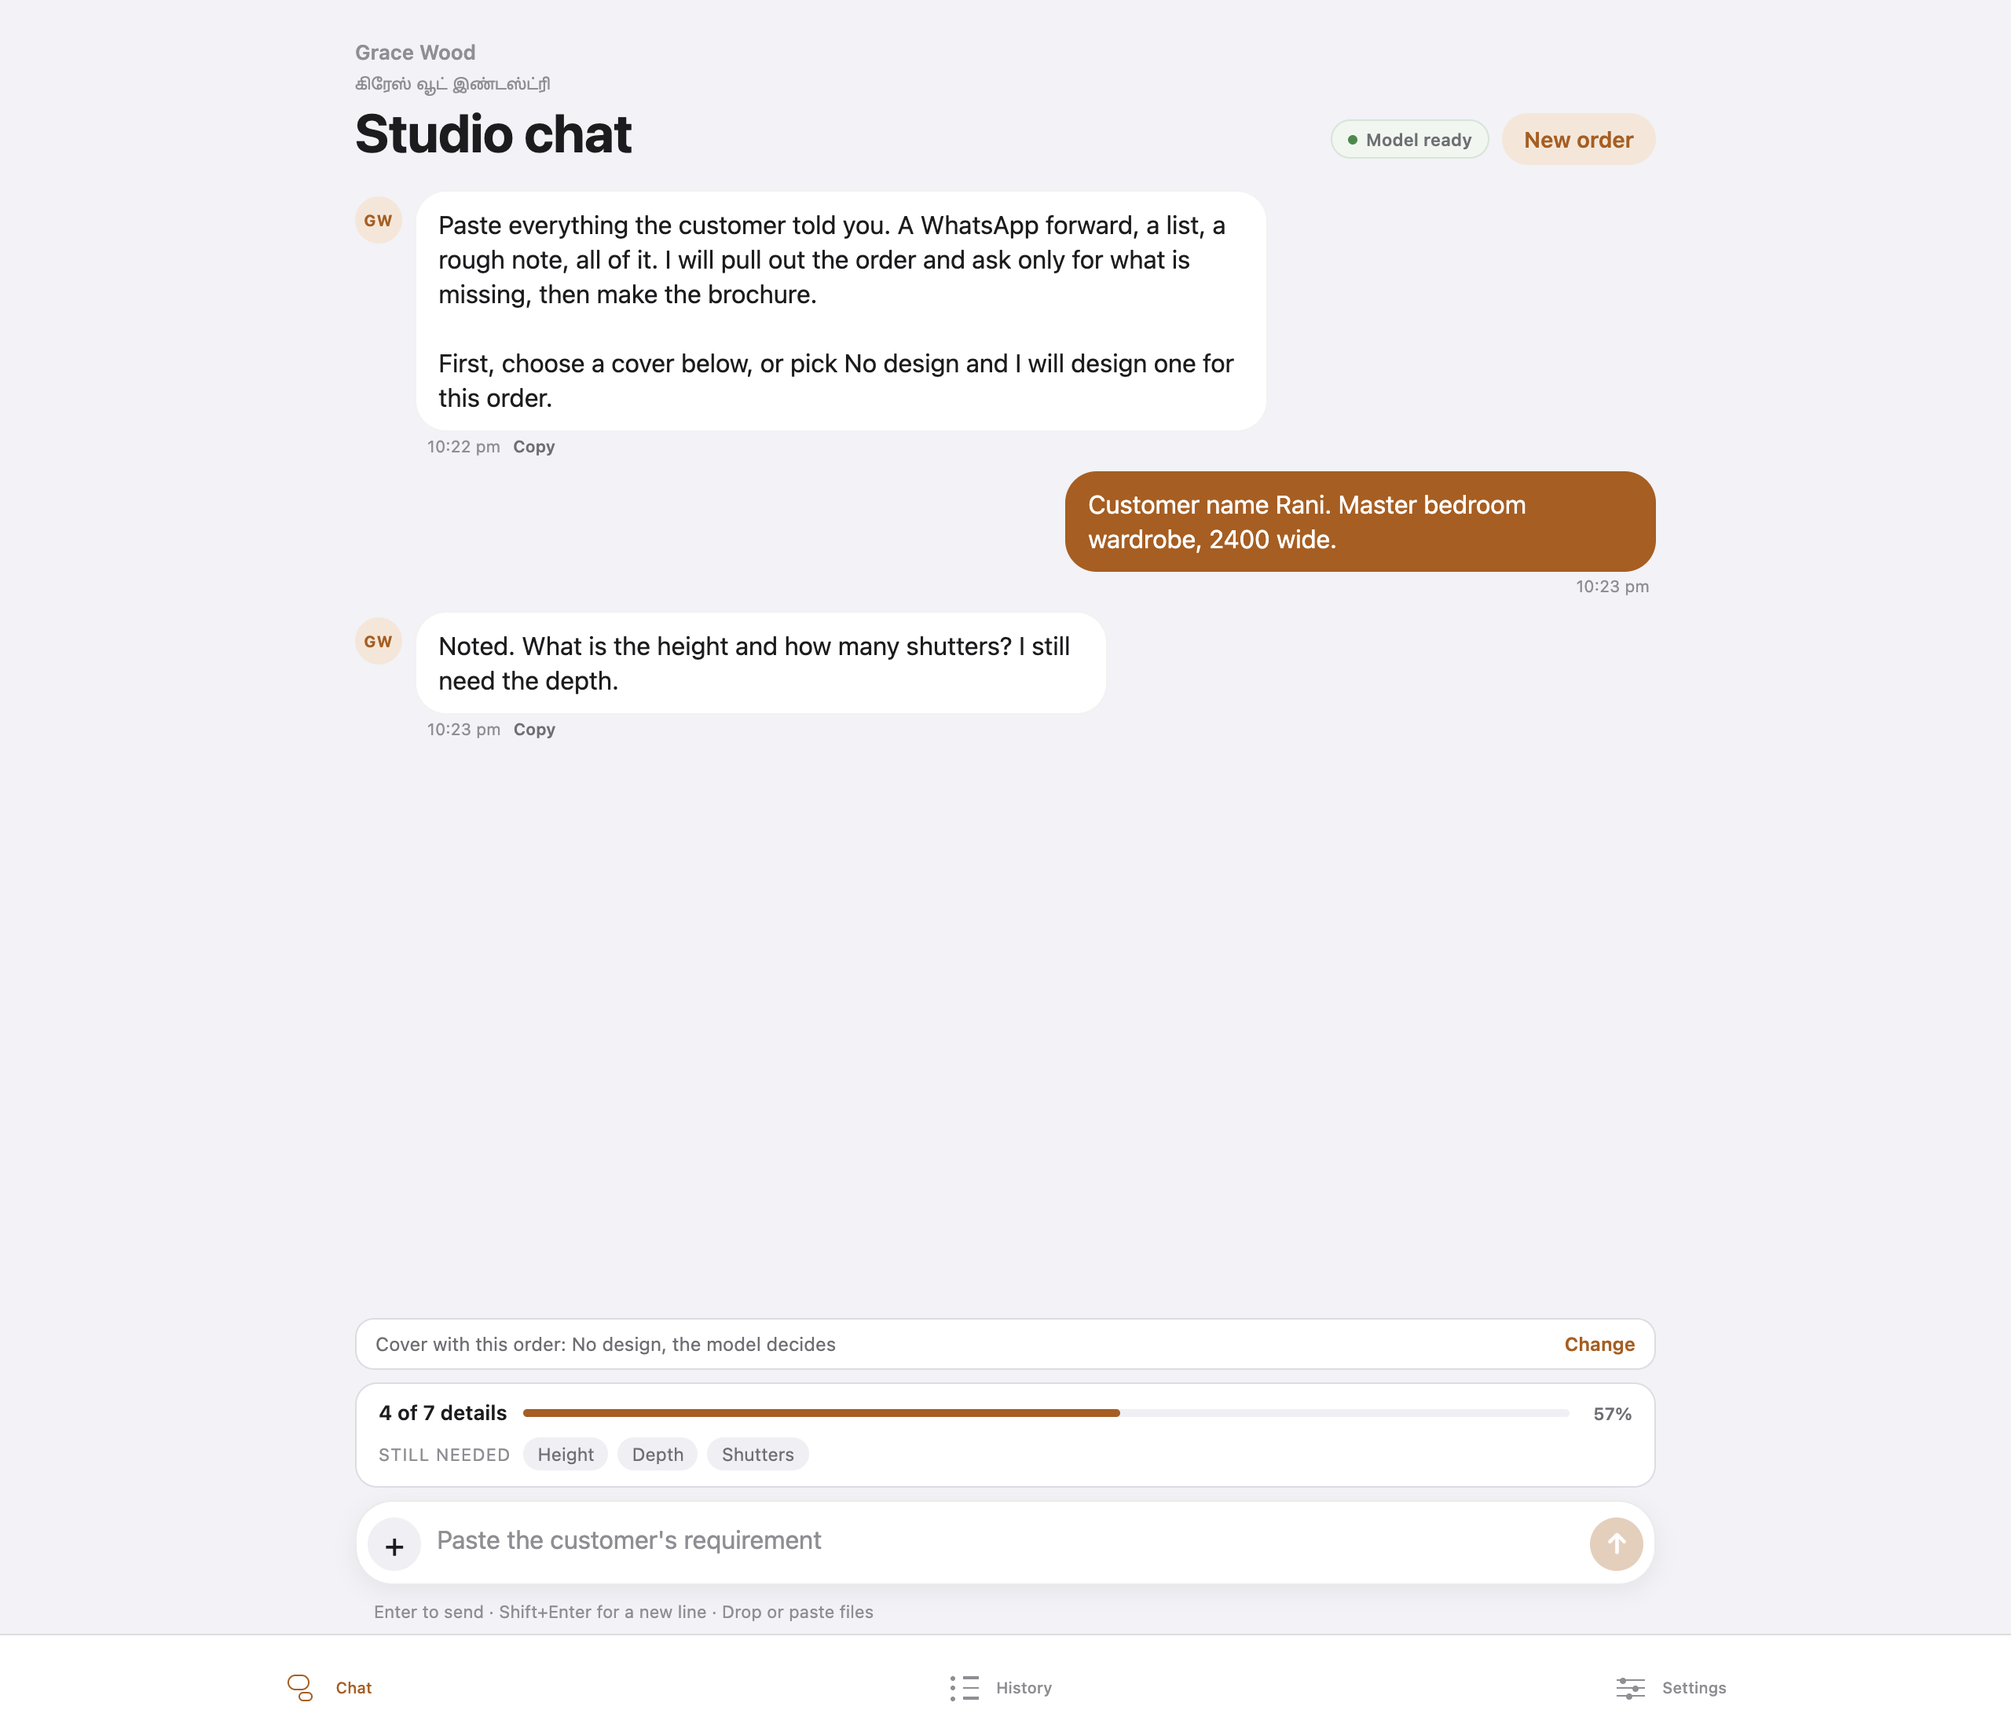
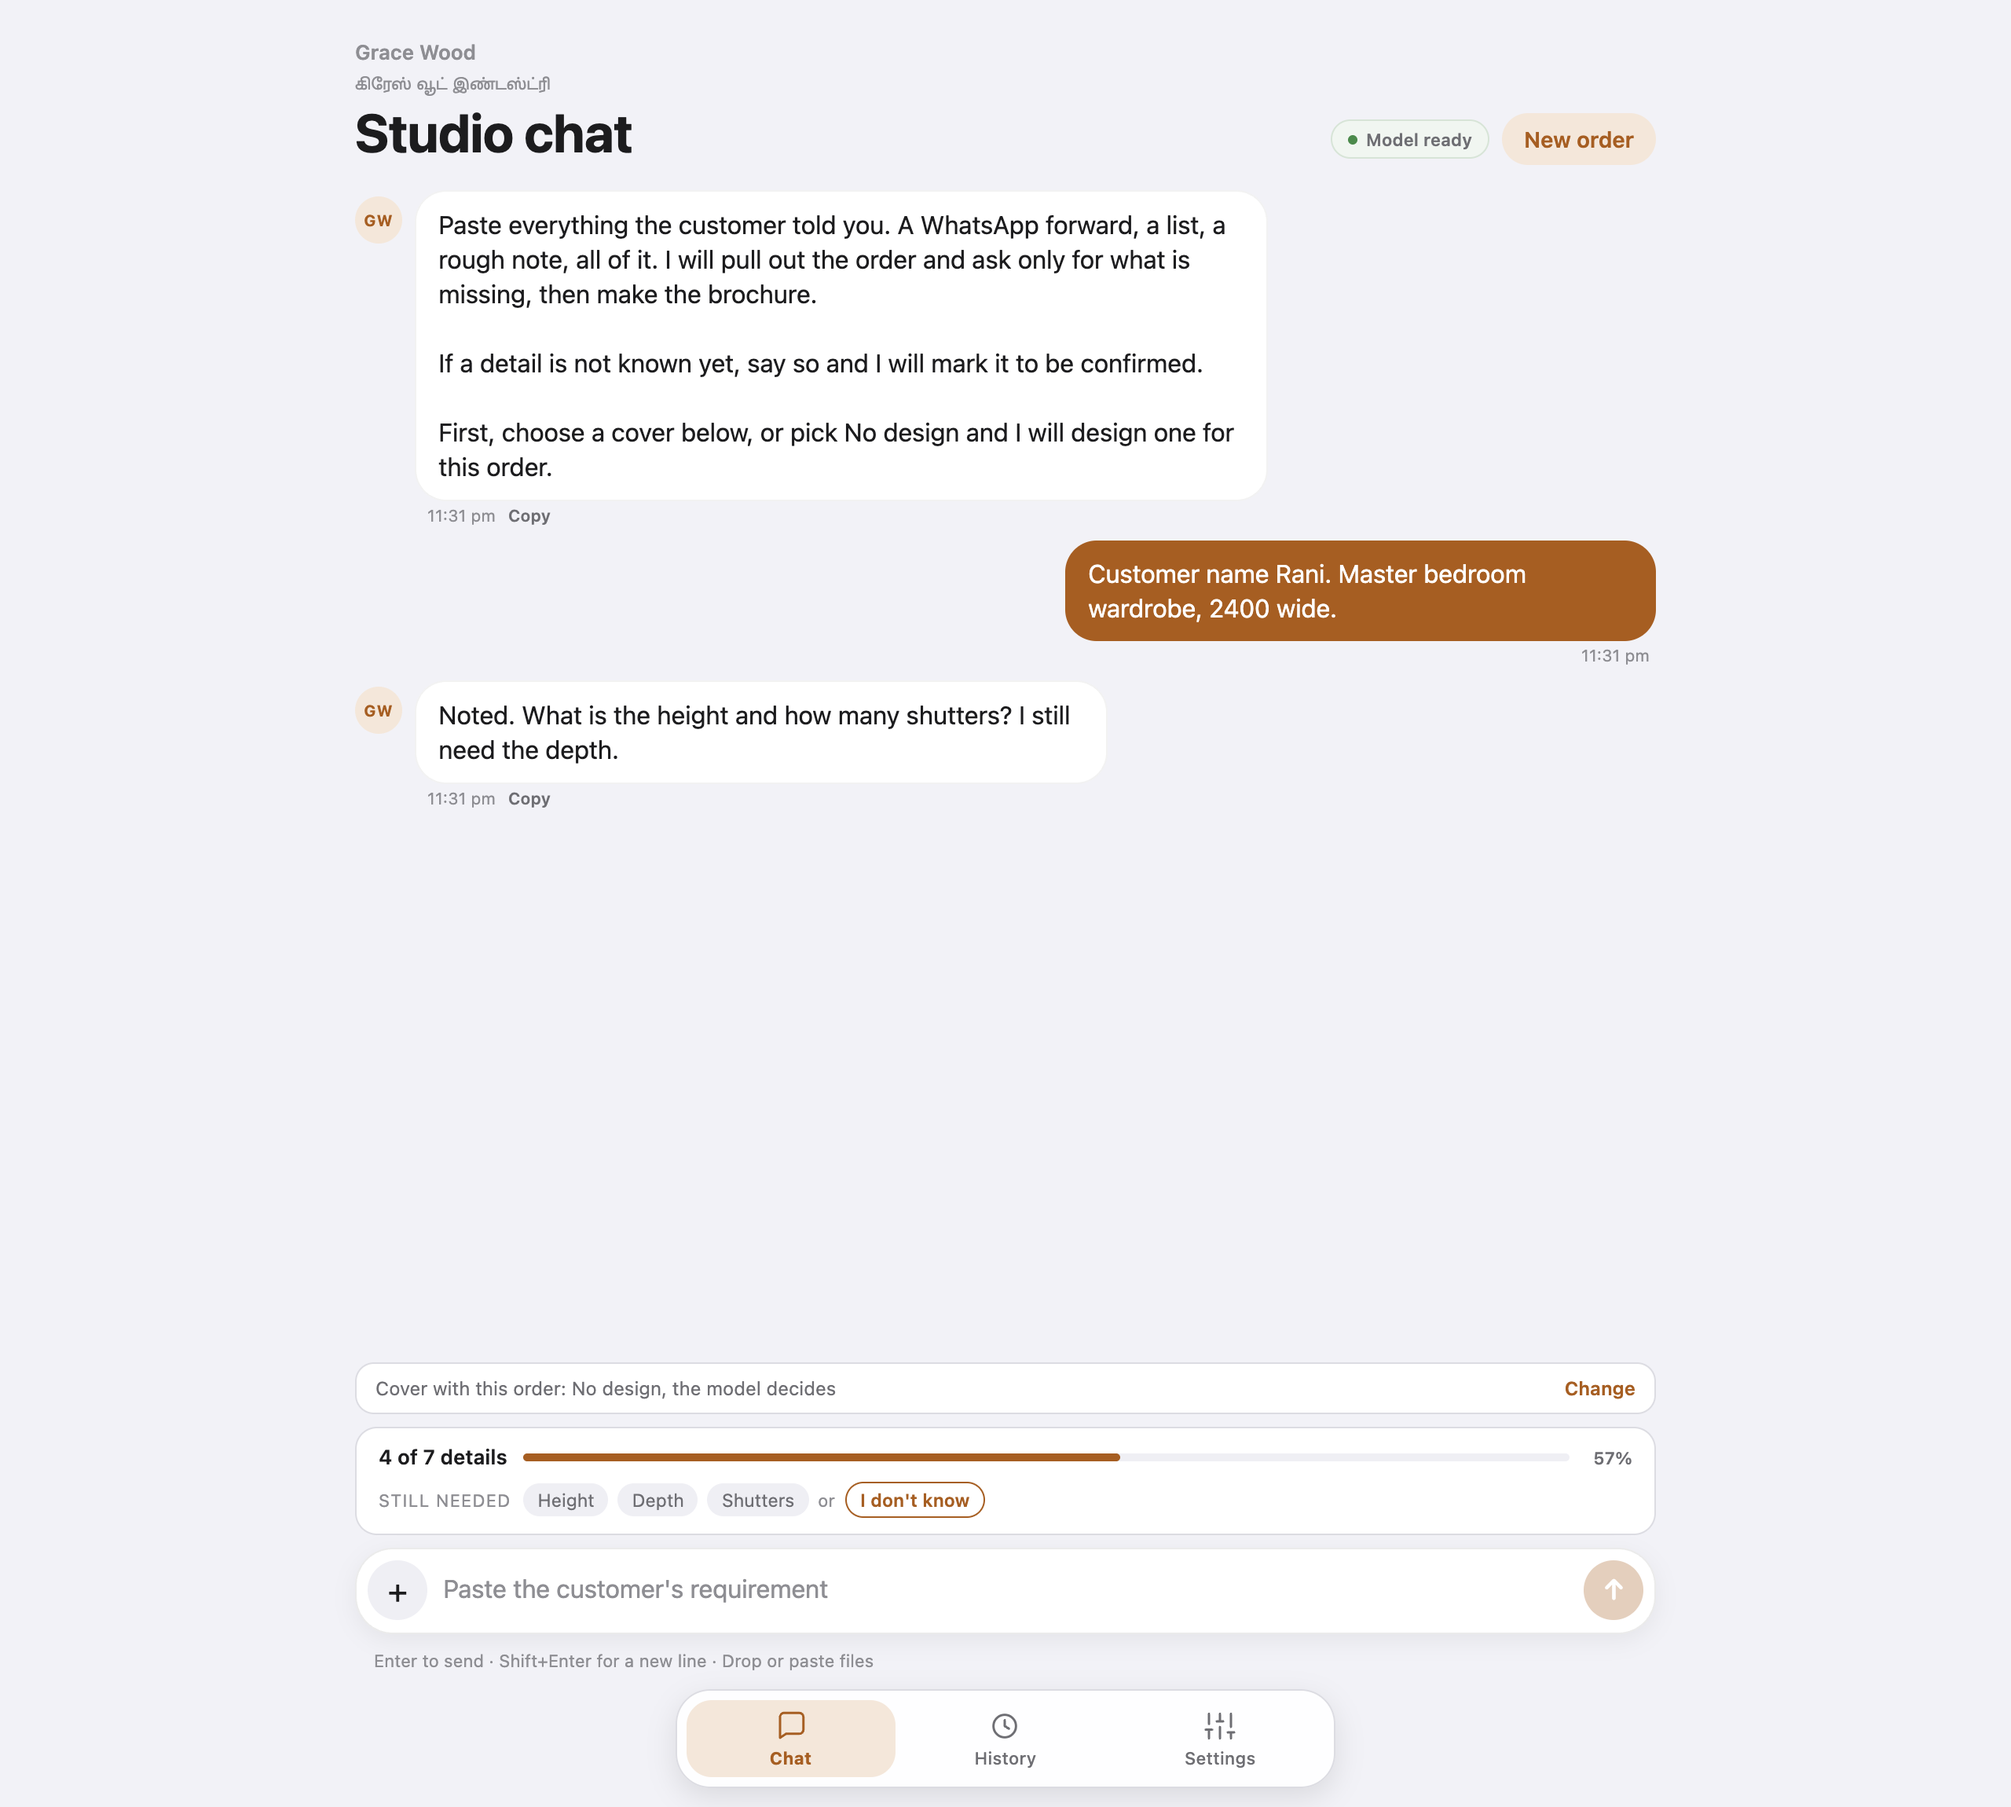
Let the studio skip details the customer does not know
Not every customer knows every measurement at the first call.

- the brief card gains an I don't know action on the missing details; saying
  'I don't know' in the chat does the same, locally, with no model call
- skipped essentials are stored as honest values: dimensions To be measured,
  shutters To be confirmed, and placeholders for name, piece and room
- the order and brochure are still made; the specification prints the
  placeholders and the measured drawing says it is issued after site measuring
  instead of drawing invented dimensions
- the intake prompt tells the model to leave unknown details empty and never
  guess
- server tests cover both the Skip request and the natural language path, and
  e2e covers skipping a chat through to the finished brochure

Tests: 96 server, 98 browser. Version 1.0.6.

diff --git a/app/app/(tabs)/index.tsx b/app/app/(tabs)/index.tsx
@@ -54,7 +54,7 @@ type Bubble =
     };
 
 const WELCOME =
-  'Paste everything the customer told you. A WhatsApp forward, a list, a rough note, all of it. I will pull out the order and ask only for what is missing, then make the brochure.\n\nFirst, choose a cover below, or pick No design and I will design one for this order.';
+  'Paste everything the customer told you. A WhatsApp forward, a list, a rough note, all of it. I will pull out the order and ask only for what is missing, then make the brochure.\n\nIf a detail is not known yet, say so and I will mark it to be confirmed.\n\nFirst, choose a cover below, or pick No design and I will design one for this order.';
 
 
 let counter = 0;
@@ -222,6 +222,7 @@ export default function ChatScreen() {
   const [chosenDesign, setChosenDesign] = useState<string>('ai');
   const [modelReady, setModelReady] = useState<boolean | null>(null);
   const [showDesignPicker, setShowDesignPicker] = useState(true);
+  const [skipping, setSkipping] = useState(false);
   const [atBottom, setAtBottom] = useState(true);
   const [dragging, setDragging] = useState(false);
   const [copiedId, setCopiedId] = useState<string | null>(null);
@@ -596,7 +597,7 @@ export default function ChatScreen() {
 
   const send = useCallback(async () => {
     const content = input.trim();
-    if ((content === '' && pendingFiles.length === 0) || sending || cooking || uploadingFiles) return;
+    if ((content === '' && pendingFiles.length === 0) || sending || cooking || skipping || uploadingFiles) return;
     if (sendingRef.current) return;
     sendingRef.current = true;
     const previousInput = input;
@@ -691,7 +692,39 @@ export default function ChatScreen() {
       sendingRef.current = false;
       setSending(false);
     }
-  }, [bubbles, cooking, createOrderFor, draft, input, inputHeight, orderCreated, orderFiles, pendingFiles, sending, uploadingFiles]);
+  }, [bubbles, cooking, createOrderFor, draft, input, inputHeight, orderCreated, orderFiles, pendingFiles, sending, skipping, uploadingFiles]);
+
+  const skipMissing = useCallback(async () => {
+    if (!missing.length || sending || cooking || skipping) return;
+    setSkipping(true);
+    try {
+      const result = await api.intake(history(), draft, undefined, missing);
+      setDraft(result.draft);
+      setMissing(result.missing);
+      setReady(result.ready);
+      setBubbles((current) => [
+        ...current,
+        { id: nextId(), role: 'assistant', kind: 'text', content: result.reply, at: stamp() },
+      ]);
+      if (result.ready) {
+        await createOrderFor(result.draft, orderFiles);
+      }
+    } catch (error) {
+      setBubbles((current) => [
+        ...current,
+        {
+          id: nextId(),
+          role: 'assistant',
+          kind: 'text',
+          content: errorMessage(error, 'I could not mark those details. Try again.'),
+          at: stamp(),
+          failed: true,
+        },
+      ]);
+    } finally {
+      setSkipping(false);
+    }
+  }, [cooking, createOrderFor, draft, history, missing, orderFiles, sending, skipping]);
 
   const retryCreate = useCallback(async () => {
     if (cooking || sending || !createFailed) return;
@@ -699,7 +732,7 @@ export default function ChatScreen() {
   }, [cooking, createFailed, createOrderFor, draft, orderFiles, sending]);
 
   const fieldCount = Object.keys(draft).length;
-  const busy = sending || cooking;
+  const busy = sending || cooking || skipping;
 
   return (
     <KeyboardAvoidingView
@@ -763,7 +796,7 @@ export default function ChatScreen() {
                 <Text style={styles.avatarLabel}>GW</Text>
               </View>
               <View style={[styles.bubble, styles.bubbleAssistant]}>
-                <TypingDots label={cooking ? 'Creating the order' : 'Reading'} />
+                <TypingDots label={cooking ? 'Creating the order' : skipping ? 'Marking it to be confirmed' : 'Reading'} />
               </View>
             </View>
           ) : null}
@@ -964,6 +997,15 @@ export default function ChatScreen() {
                       <Text style={styles.missingChipText}>{shortLabel(label)}</Text>
                     </Pressable>
                   ))}
+                  <Text style={styles.missingOr}>or</Text>
+                  <Pressable
+                    accessibilityRole="button"
+                    accessibilityLabel="I do not know these details, mark them to be confirmed"
+                    onPress={() => void skipMissing()}
+                    disabled={busy}
+                    style={({ pressed }) => [styles.skipChip, pressed && styles.sendPressed]}>
+                    <Text style={styles.skipChipText}>I don&apos;t know</Text>
+                  </Pressable>
                 </View>
               )}
             </View>
@@ -1638,6 +1680,22 @@ const styles = StyleSheet.create({
   missingChipText: {
     fontSize: 11.5,
     color: colors.muted,
+  },
+  missingOr: {
+    fontSize: 11,
+    color: colors.faint,
+  },
+  skipChip: {
+    borderRadius: 999,
+    borderWidth: 1,
+    borderColor: colors.copper,
+    paddingHorizontal: 9,
+    paddingVertical: 4,
+  },
+  skipChipText: {
+    fontSize: 11.5,
+    fontWeight: '600',
+    color: colors.copper,
   },
   attachTray: {
     flexDirection: 'row',

diff --git a/app/lib/api.ts b/app/lib/api.ts
@@ -379,11 +379,12 @@ export const api = {
   intake(
     messages: IntakeMessage[],
     draft?: Record<string, string>,
-    attachments?: OrderAttachment[]
+    attachments?: OrderAttachment[],
+    skip?: string[]
   ): Promise<IntakeResult> {
     return request<IntakeResult>('/api/intake', {
       method: 'POST',
-      body: { messages, draft, attachments },
+      body: { messages, draft, attachments, skip },
       timeoutMs: 120000,
     });
   },

diff --git a/README.md b/README.md
@@ -43,6 +43,7 @@ One chat is one order. It opens like a premium assistant: brand avatar, timestam
 - **Starter cards**: paste a WhatsApp message, add photos or a plan, or pick a cover.
 - **Files**: attach with +, drag files onto the window, or paste an image. Any type, up to 50 MB each. Attachments wait in a tray with a thumbnail, size and remove button before sending.
 - **Brief progress**: after the first reply the composer shows a progress bar, the details still missing as chips, and a Ready to build state.
+- **Skipping what is not known**: press **I don't know** on the missing details, or type it in the chat. Those details are marked to be confirmed, never guessed. The order is still made, the specification prints To be measured, and the measured drawing says it will follow after the site measurement.
 - **Keyboard**: Enter sends, Shift+Enter writes a new line, IME composition never sends early. A scroll to latest button appears when you are reading back.
 - **Nothing is lost on failure**: a failed send puts the message and attachments back in the composer and explains how to fix it.
 - **Model status**: a Model ready pill when the language model is configured, and an Add model banner that links straight to Settings when it is not.
@@ -213,7 +214,7 @@ npm run typecheck
 npm run lint
 ```
 
-`npm run e2e` starts the API, the web build and a mock model provider, then walks the product like a person: history, an order created the way the chat does, detail, render, open PDF, share, re-render, choose a different design, tests the AI design editor and its re-render, test the model connection, draft a customer note, write the brochure body, confirm the body inside the generated PDF, render the info kit, the chat creating its own order and brochure, settings, deep link, mobile viewport, and the sad path when the API is down. 93 checks. Screenshots land in `docs/screenshots/e2e/`. The run fails on console errors.
+`npm run e2e` starts the API, the web build and a mock model provider, then walks the product like a person: history, an order created the way the chat does, detail, render, open PDF, share, re-render, choose a different design, tests the AI design editor and its re-render, test the model connection, draft a customer note, write the brochure body, confirm the body inside the generated PDF, render the info kit, the chat creating its own order and brochure, settings, deep link, mobile viewport, and the sad path when the API is down. 98 checks. Screenshots land in `docs/screenshots/e2e/`. The run fails on console errors.
 
 ## Design templates
 
@@ -279,7 +280,7 @@ The desktop process starts the server itself through `server/src/boot.mjs`. The 
 
 The Windows installer is a custom NSIS wizard in `desktop/installer/GraceStudio.nsi`, built the same way as the Attendance Report Studio installer: Welcome, options, install, Finish with a Launch checkbox. It installs for the current Windows user into `%LOCALAPPDATA%\Programs\Grace Studio`, so there is no administrator prompt, creates a Start Menu shortcut and optionally a desktop shortcut, registers a proper Apps and Features uninstall entry, and upgrades cleanly. Data in the app data folder is never touched.
 
-`.github/workflows/desktop.yml` builds both installers on every `v*` tag and attaches them to the GitHub release: `Grace.Studio.Setup.1.0.5.exe` and a portable exe for Windows, dmg and zip for macOS. The Windows job also installs the wizard silently on the runner, checks that the app landed at the expected path, then uninstalls it to prove both directions work. Builds are unsigned for now: SmartScreen and Gatekeeper will warn on first open.
+`.github/workflows/desktop.yml` builds both installers on every `v*` tag and attaches them to the GitHub release: `Grace.Studio.Setup.1.0.6.exe` and a portable exe for Windows, dmg and zip for macOS. The Windows job also installs the wizard silently on the runner, checks that the app landed at the expected path, then uninstalls it to prove both directions work. Builds are unsigned for now: SmartScreen and Gatekeeper will warn on first open.
 
 The standalone app was built and launched on this machine: the packaged build started its embedded server, designed a brochure with the live model, and printed all four pages through the Electron engine in 1.5 seconds.
 
